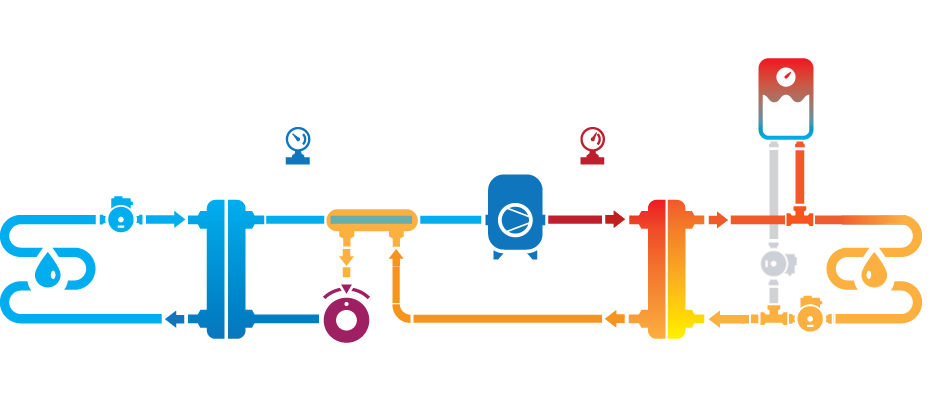
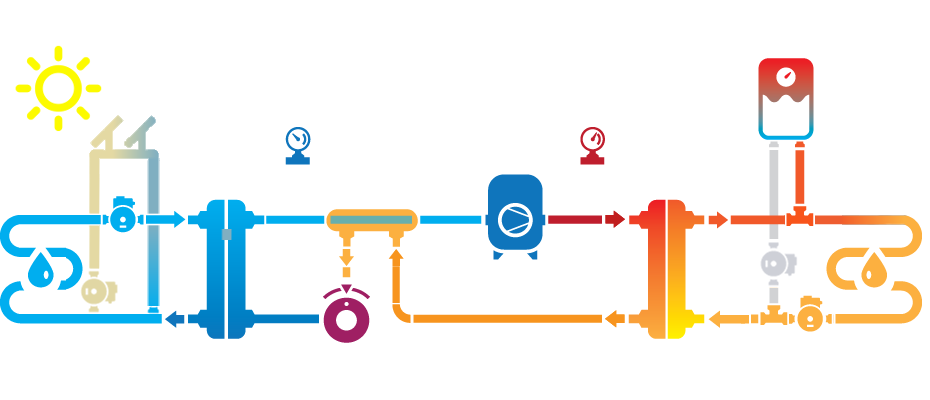
Солнечный коллектор на плане

Changed region(s): [[0.0, 0.12, 0.1871, 0.78], [0.2183, 0.57, 0.2495, 0.6]]

diff --git a/Web/plan.html b/Web/plan.html
@@ -12,8 +12,8 @@
 	<script type="text/javascript">
 		urltimeout = 2000;
 		window.onload = function() {
-			loadParam("hide_tro_ei");
-			updateParam("get_paramFC(cFC),get_paramFC(INFO1),get_paramEEV(POSpp),get_paramEEV(OVERHEAT),get_MODE,get_Press(PEVA),get_Press(PCON),get_Temp(TBOILER),get_Temp(TOUT),get_Temp(TEVAOUT),get_Temp(TRTOOUT),get_Temp(TEVAIN),get_Temp(TCOMP),get_Temp(TIN),get_Temp(TEVAING),get_Temp(TEVAOUTG),get_Temp(TCONING),get_Temp(TCONOUTG),get_Temp(TCONOUT),get_targetTemp(TIN),get_Temp(TBOILER),get_Relay(RPUMPI),get_relayOut,get_Relay(RPUMPFL),get_Flow(FLOWEVA),get_Flow(FLOWCON),get_OverCool,get_SDM(ACPOWER_SDM),get_fullCOP,get_PowerCO,get_Relay(RBOILER)");
+			loadParam("hide_tro_ei,hide_sun");
+			updateParam("get_paramFC(cFC),get_paramFC(INFO1),get_paramEEV(POSpp),get_paramEEV(OVERHEAT),get_MODE,get_Press(PEVA),get_Press(PCON),get_Temp(TBOILER),get_Temp(TOUT),get_Temp(TEVAOUT),get_Temp(TRTOOUT),get_Temp(TEVAIN),get_Temp(TCOMP),get_Temp(TIN),get_Temp(TEVAING),get_Temp(TEVAOUTG),get_Temp(TCONING),get_Temp(TCONOUTG),get_Temp(TCONOUT),get_targetTemp(TIN),get_Temp(TBOILER),get_Relay(RPUMPI),get_relayOut,get_Relay(RPUMPFL),get_Flow(FLOWEVA),get_Flow(FLOWCON),get_OverCool,get_SDM(ACPOWER_SDM),get_fullCOP,get_PowerGEO,get_PowerCO,get_Relay(RBOILER),get_Relay(RSUN),get_Temp(TSUN),get_Temp(TSUNOUTG)");
 	};
 	</script>	
 </head>
@@ -44,12 +44,18 @@
 		<span id="get_flow-flowcon" class="orange">-.-</span>
 		<span id="get_overcool" class="orange">-.-</span>
 		<span id="get_relay-rboiler" class="charsw" title=" ϟ"></span>
+		<div name="hide_sun">
+		<span id="get_relay-rsun" class="charsw" title=" ϟ"></span>
+		<span id="get_temp-tsun" class="red">-.-</span>
+		<span id="get_temp-tsunoutg" class="red">-.-</span>
+		</div>
 	</div>
 	<div class="row1">
 		<table>
 			<tr><td width="16%" style="font-weight: bold;">Режим работы:</td><td width="16%"><span id="get_mode2">-</span></td><td width="16%" style="font-weight: bold;">На улице:</td><td width="16%"><span id="get_temp-tout">-</span> &deg;C</td><td width="16%" style="font-weight: bold;">В доме:</td><td width="16%"><span id="get_temp-tin">-</span> &deg;C</td></tr>
 			<tr><td style="font-weight: bold;">Насос ГК:</td><td><span id="get_relay-rpumpi-ONOFF">-</span></td><td style="font-weight: bold;">Насос СО:</td><td><span id="get_relayout">-</span></td><td style="font-weight: bold;">Насос ТП</td><td><span id="get_relay-rpumpfl-ONOFF">-</span></td></tr>
-			<tr><td style="font-weight: bold;">Потребление:</td><td><span id="get_sdm-acpower_sdm-div1000">-</span> кВт</td><td style="font-weight: bold;">Выход:</td><td><span id="get_powerco">-</span> кВт</td><td style="font-weight: bold;">COP:</td><td><span id="get_fullcop">-</span></td></tr>		
+			<tr><td style="font-weight: bold;">Потребление:</td><td><span id="get_sdm-acpower_sdm-div1000">-</span> кВт</td><td style="font-weight: bold;">Вход:</td><td><span id="get_powergeo">-</span> кВт</td><td style="font-weight: bold;">Выход:</td><td><span id="get_powerco">-</span> кВт</td></tr>		
+			<tr><td style="font-weight: bold;">COP:</td><td><span id="get_fullcop">-</span></td> <td></td><td></td> <td></td><td></td></tr>		
 		</table>
 	</div>
 </div>

diff --git a/Web/style.css b/Web/style.css
@@ -133,6 +133,9 @@ body.test #get_listrelay span{display:none}
 .visualization #get_flow-flowcon	{margin-top: 280px;margin-left: 690px;}.visualization #get_flow-flowcon:after{margin-left:3px;content:"м³ч";}
 .visualization #get_overcool		{margin-top: 358px;margin-left: 575px;}.visualization #get_overcool:before{content:"Δ";}
 .visualization #get_relay-rboiler	{margin-top: 102px;margin-left: 743px;}.visualization #get_relay-rboiler:after{content:""}
+.visualization #get_relay-rsun		{margin-top: 73px;margin-left: 15px;}.visualization #get_relay-rsun:after{content:""}
+.visualization #get_temp-tsun		{margin-top: 85px;margin-left: 115px;}
+.visualization #get_temp-tsunoutg	{margin-top: 167px;margin-left: 20px;}
 
 .cd-accordion-menu input[type=checkbox] {	position: absolute;	opacity: 0;}
 .cd-accordion-menu label, .cd-accordion-menu a {position: relative;	display: block;}

diff --git a/Web/mob/scripts.js b/Web/mob/scripts.js
@@ -2,6 +2,7 @@
 //var urlcontrol = 'http://62.140.252.108:2545';
 //var urlcontrol = 'http://77.50.254.24:25402'; // адрес и порт контроллера, если адрес сервера отличен от адреса контроллера (не рекомендуется)
 var urlcontrol = ''; //  если адрес сервера совпадает с адресом контроллера (рекомендуется)
+//var urlcontrol = 'http://192.168.0.199';
 var urltimeout = 2800; // таймаут ожидание ответа от контроллера. Чем хуже интертнет, тем выше значения. Но не более времени обновления параметров
 var urlupdate = 5000; // время обновления параметров в в миллисекундах
 

diff --git a/Control/Config.h b/Control/Config.h
@@ -2169,7 +2169,7 @@ enum TYPE_SENSOR
 // -----------------------------------------------------------------------------------------------------------------------------------
 #ifdef CONFIG_6    // Имя и описание конфигурации и ОСОБЕННОСТИ конфигурации ---------------------------------------------------------
     //#define DEMO                  // Включение демо режима
-//	#define TEST_BOARD 				// Тестовая плата!
+	#define TEST_BOARD 				// Тестовая плата!
     #define CONFIG_NAME   "vad7"
     #define CONFIG_NOTE   "Частотник, асинхронник 3 фазы, ЭРВ, РТО, 2 датчика давления"
     #define HP_SCHEME     3			// Номер схемы который выводится на морде, подмена файлов plan[HPscheme].png -> plan1.png
@@ -2241,8 +2241,8 @@ enum TYPE_SENSOR
 	#else
      const boolean   defaultDHCP	=   true;
 	 const IPAddress defaultIP          (192, 168, 0, 199);
-     const IPAddress defaultSDNS        (192, 168, 0,   1);
-     const IPAddress defaultGateway     (192, 168, 0,   1);
+     const IPAddress defaultSDNS        (192, 168, 0,   10);
+     const IPAddress defaultGateway     (192, 168, 0,   10);
 	#endif
      const IPAddress defaultSubnet      (255, 255, 255, 0);
      //  #define SUPERBOILER               // Использование предкондесатора для нагрева ГВС
@@ -2492,7 +2492,7 @@ enum TYPE_SENSOR
   // --------------------------------------------------------------------------------
   // ДАТЧИКИ и УСТРОЙСТВА - максимально поддерживаемые
   // --------------------------------------------------------------------------------
-  #define TNUMBER     17      // Максимальное число температурных датчиков (то что поддерживается)
+  #define TNUMBER     16      // Максимальное число температурных датчиков (то что поддерживается)
   #define SENSOR_IP           // Использование удаленных устройств( датчиков температуры смотрим IPNUMBER )
   #define IPNUMBER    5       // Максимальное число удаленных датчиков, запрет использования  SENSOR_IP
 
@@ -2509,8 +2509,7 @@ enum TYPE_SENSOR
     #define TEVAOUT     8    // Температура на выходе испарителя (по фреону)     - 285960280600000A - 4
     #define TCONOUT     9    // Температура на выходе конденсатора (по фреону)   - 28FF509C55140355 - 6
 	#define TSUN		10
-	#define TSUNING		11
-	#define TSUNOUTG	12
+	#define TSUNOUTG	11
   	  //"TKITCHEN",	- 101350B4020800CA
   	  //"TFLOOR2",	- 10DA24AC02080095
   	  //"TROOM",	-
@@ -2523,16 +2522,16 @@ enum TYPE_SENSOR
     //#define TEVAIN      13   // Температура на входе испарителя (по фреону)
     //#define TACCUM      13   // Температура на выходе теплоаккмулятора
     // Наличие датчика в конфигурации: 0 - нет, 1 - есть
-    //...................................0.....1.....2.....3.....4.....5.....6.....7.....8.....9....10....11....12....13....14....15....16..
-    const boolean SENSORTEMP[TNUMBER]={    1,    1,    1,    1,    1,    1,    1,    1,    1,    1,    1,    1,    1,    1,    1,    1,    1 };
+    //...................................0.....1.....2.....3.....4.....5.....6.....7.....8.....9....10....11....12....13....14....15...
+    const boolean SENSORTEMP[TNUMBER]={    1,    1,    1,    1,    1,    1,    1,    1,    1,    1,    1,    1,    1,    1,    1,    1 };
     // минимальные значения температур
-    const int16_t MINTEMP[TNUMBER] = { -4000,-1000,-1000,-1000,-2000,-2000,-2000,-2000,-2000,-2000,-3000,-4000,-2000,-2000,-3000,-3000,-3000 };
+    const int16_t MINTEMP[TNUMBER] = { -4000,-1000,-1000,-1000,-2000,-2000,-2000,-2000,-2000,-2000,-4000,-2000,-2000,-3000,-3000,-3000 };
     // Макимальные значения температур, ВНИМАНИЕ! для TBOILER температура меняется если включен режим сальмонеллы на SALLMONELA_TEMP+300
-    const int16_t MAXTEMP[TNUMBER] = {  7000, 5000, 9000,10000, 9000, 9000, 6000, 6500, 9000, 9000, 9500,10000, 9500, 9500, 9500, 9500, 9500 };
+    const int16_t MAXTEMP[TNUMBER] = {  7000, 5000, 9000,10000, 9000, 9000, 6000, 6500, 9000, 9000,10000, 9000, 9500, 7000, 7000, 7000 };
     // Значения датчиков при тестировании, опция TEST
-    const int16_t TESTTEMP[TNUMBER]= {  1000, 2200, 6000, 5000,  500,  100, 3000, 3500, -200, 3300, 2700, 3500,  102, 2000, 2100, 2200, 1500 };
+    const int16_t TESTTEMP[TNUMBER]= {  1000, 2200, 6000, 5000,  500,  100, 3000, 3500, -200, 3300, 2700, 3500, 2000, 2100, 2200, 1500 };
     // Ошибки датчиков (систематические) нужны для калибровки ОШИБКИ ДОБАВЛЯЮТСЯ!!! к значениям В СОТЫХ ГРАДУСА
-    const int16_t ERRTEMP[TNUMBER]=  {     0,    0,    0,    0,    0,    0,    0,    0,    0,    0,    0,    0,    0,    0,    0,    0,    0  };
+    const int16_t ERRTEMP[TNUMBER]=  {     0,    0,    0,    0,    0,    0,    0,    0,    0,    0,    0,    0,    0,    0,    0,    0 };
         // Имена датчиков
     const char *nameTemp[TNUMBER] = {
         "TOUT",             // 0. Температура улицы
@@ -2547,13 +2546,12 @@ enum TYPE_SENSOR
         "TCONOUT",          // 9. Температура на выходе конденсатора по фреону
 
 		"TSUN",				// 10. Температура солнечного коллектора (улица)
-		"TSUNING",			// 11. Температура на входе в солнечный коллектор (гликоль)
-		"TSUNOUTG",			// 12. Температура на выходе из солнечного коллектора (гликоль)
+		"TSUNOUTG",			// 11. Температура на выходе из солнечного коллектора (гликоль)
 		// Датчики zont-a (4 шина)
-        "TKITCHEN",			// 13.
-        "TFLOOR2",			// 14.
-        "TROOM",			// 15.
-        "TBASEMENT"			// 16.
+        "TKITCHEN",			// 12.
+        "TFLOOR2",			// 13.
+        "TROOM",			// 14.
+        "TBASEMENT"			// 15.
 //        "TRTOOUT",          // Температура на выходе RTO (по фреону)
 //        "TEVAIN",           // Температура на входе испарителя по фреону
 //        "TCONIN",           // Температура на входе конденсатора по фреону
@@ -2572,7 +2570,6 @@ enum TYPE_SENSOR
         "Температура фреона на выходе ПТО гео",
         "Температура фреона на выходе ПТО дома",
 		"Температура солнечного коллектора (улица)",
-		"Температура на входе в солнечный коллектор",
 		"Температура на выходе из солнечного коллектора",
         "Температура кухни",
         "Температура 2 этаж",

diff --git a/Control/Hardware.h b/Control/Hardware.h
@@ -227,16 +227,17 @@ private:
 // ------------------------------------------------------------------------------------------
 // И С П О Л Н И Т Е Л Ь Н Ы Е   У С Т Р О Й С Т В А   --------------------------------------
 // ------------------------------------------------------------------------------------------
-#define fR_Request_OFF		1			// Запрос на выключение от основного алгоритма
+#define fR_StatusMain		1			// b1: Состояние Вкл/Выкл основного алгоритма
+#define fR_StatusSun		2			// b2: Состояние Вкл/Выкл Солнечного Коллектора
+#define fR_StatusMask		((1<<fR_StatusMain)|(1<<fR_StatusSun))	// битовая маска
 
 class devRelay
 {
 public:
   void initRelay(int sensor);                            // Инициализация реле
-  __attribute__((always_inline)) inline int8_t  set_ON() {return set_Relay((boolean)true);}    // Включить реле
-  __attribute__((always_inline)) inline int8_t  set_OFF(){return set_Relay((boolean)false);}   // Выключить реле
-  int8_t  set_Relay(boolean r);                          // Установить реле в состояние r
-  int8_t  set_Relay(int16_t r);                          // Установить реле в состояние r
+  __attribute__((always_inline)) inline int8_t  set_ON() {return set_Relay(1);}    // Включить реле
+  __attribute__((always_inline)) inline int8_t  set_OFF(){return set_Relay(0);}   // Выключить реле
+  int8_t  set_Relay(int8_t r);                           // Установить реле в состояние (0/-1 - выкл основной алгоритм, 1 - вкл основной, 2 - вкл СК, -2 - выкл СК)
   __attribute__((always_inline)) inline boolean get_Relay(){return Relay;}                    // Прочитать состояние реле
   int8_t  get_pinD(){return pin;}                        // Получить ногу куда прицеплено реле
   char*   get_note(){return note;}                       // Получить наименование реле
@@ -244,9 +245,9 @@ public:
   __attribute__((always_inline)) inline boolean get_present(){return GETBIT(flags,fPresent);} // Наличие датчика в текущей конфигурации
   TEST_MODE get_testMode(){return testMode;}             // Получить текущий режим работы
   void set_testMode(TEST_MODE t){testMode=t;}            // Установить значение текущий режим работы
+  byte flags;                                           // флаги  0 - наличие реле, 1 -
 private:
    uint8_t number;										// Номер массива реле
-   byte flags;                                           // флаги  0 - наличие реле, 1 -
    boolean Relay;                                        // Состояние реле
    TEST_MODE testMode;                                   // Значение режима тестирования
    uint8_t  pin;                                         // Ножка куда прицеплено реле

diff --git a/Control/Constant.h b/Control/Constant.h
@@ -35,7 +35,7 @@ byte defaultMAC[] = { 0xDE, 0xA1, 0x1E, 0x01, 0x02, 0x03 };// не менять
 const uint16_t  defaultPort=80;
 
 // ОПЦИИ КОМПИЛЯЦИИ ПРОЕКТА -------------------------------------------------------
-#define VERSION         "0.957 beta"        // Версия прошивки
+#define VERSION         "0.958 beta"        // Версия прошивки
 #ifndef UART_SPEED
 #define UART_SPEED       115200             // Скорость отладочного порта
 #endif

diff --git a/Control/HeatPump.h b/Control/HeatPump.h
@@ -448,6 +448,7 @@ class HeatPump
 
     void Pumps(boolean b, uint16_t d);    // Включение/выключение насосов, задержка после включения msec
     void Pump_HeatFloor(boolean On);	  // Включить/выключить насос ТП
+    void Sun_OFF(void);					  // Выключить СК
     uint8_t flags;						  // Рабочие флаги ТН
 
     int16_t get_temp_condensing(void);	    // Расчитать температуру конденсации
